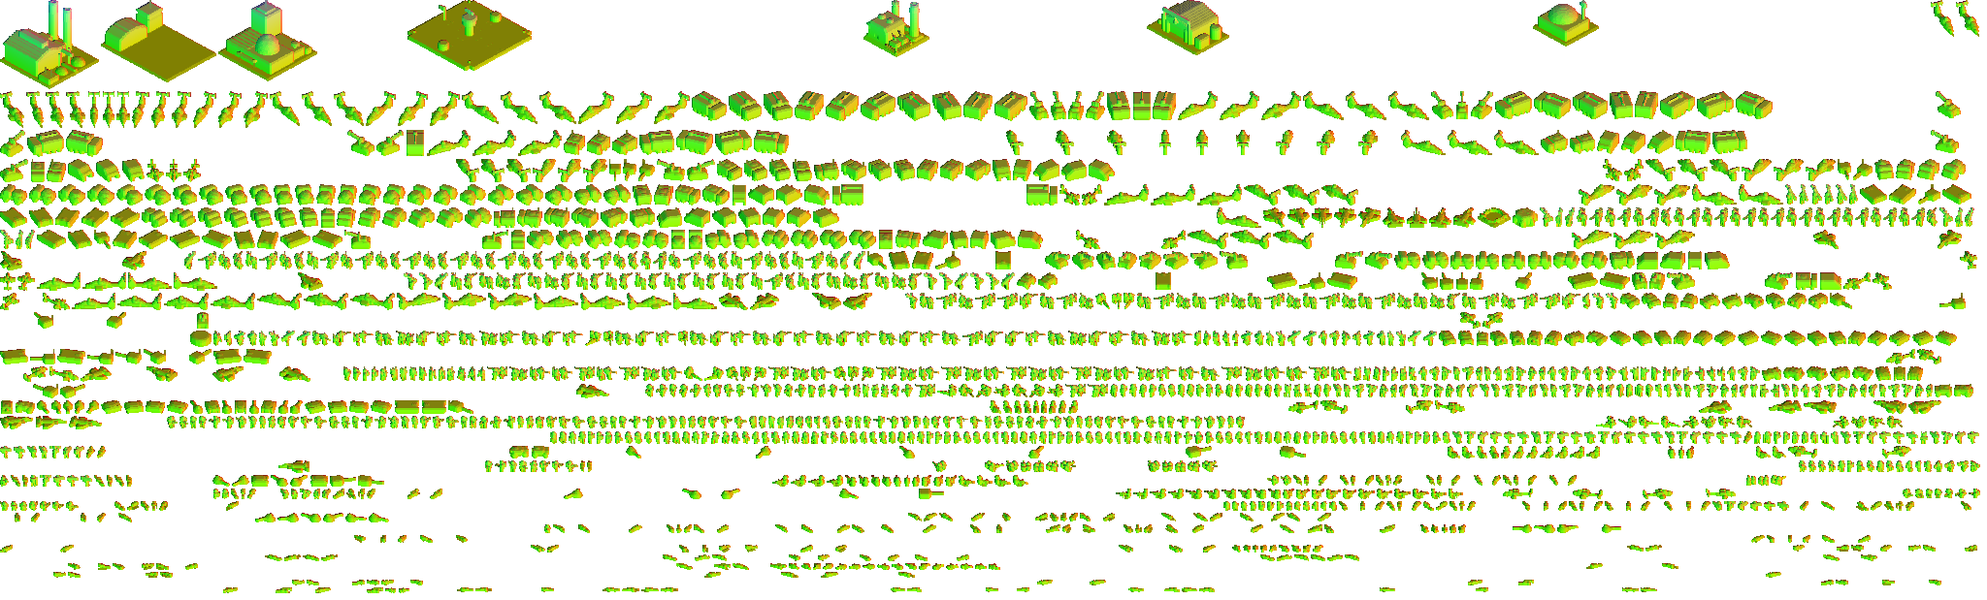
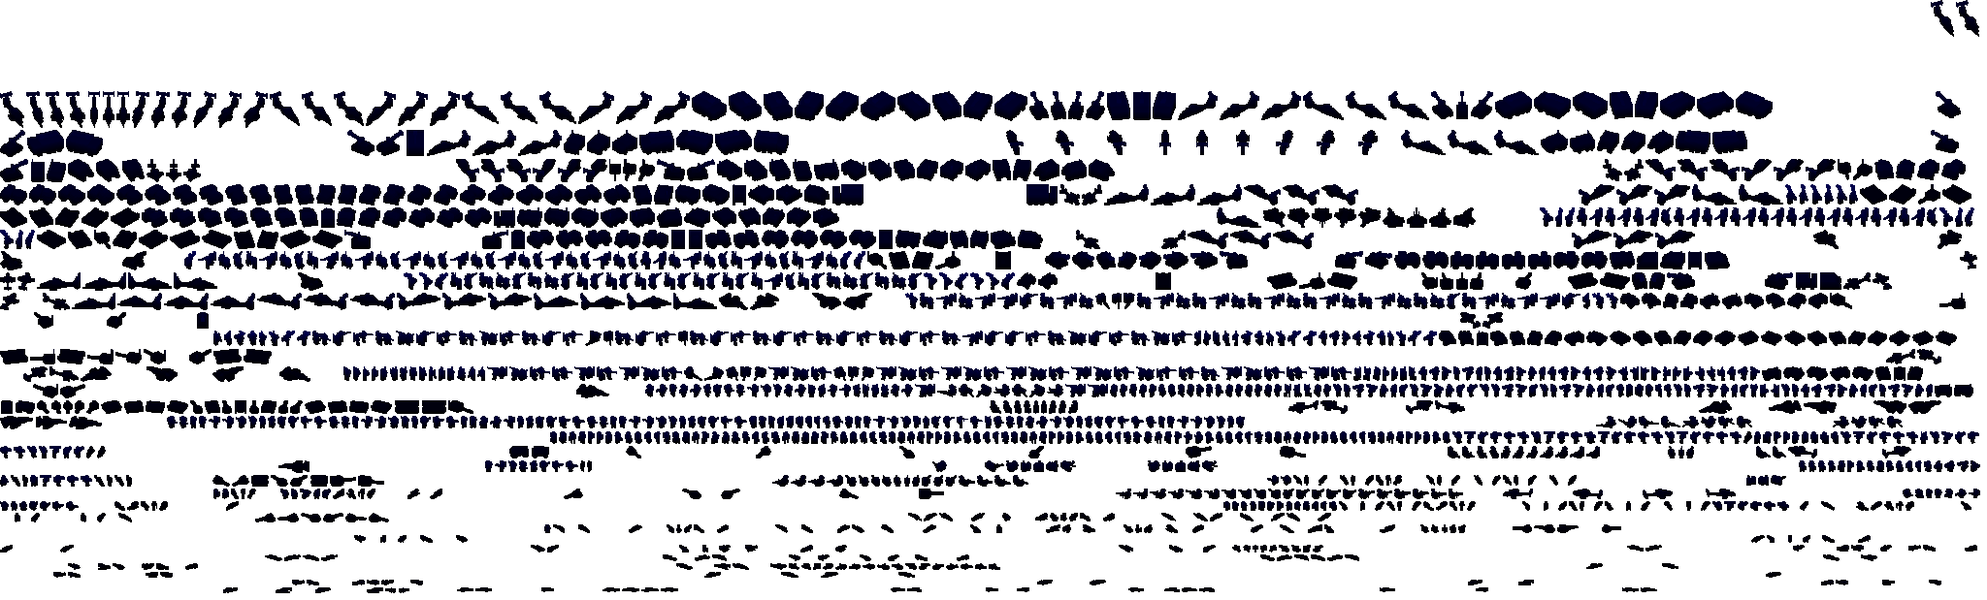
WebGL renderer: the sun where it is in the day on day/night maps (pictures and hills relit per pixel, new over baked), thick lines and whole ellipses as WebGL shapes, normal maps without structures (0.44 MB) and marking glowing parts; release steps, notes, TS build copies normals/; profiling code ou
Claude-Session: https://claude.ai/code/session_018itzs618nMgCo6BtfKwa1w

diff --git a/src/gl.js b/src/gl.js
@@ -288,7 +288,7 @@ void main() {
     order.sort((p, q2) => key[p] - key[q2]);
     for (let k = 0; k < n; k++) {
       const i = order[k], z = s.zs[i], nxr = s.nx[i] * ca - s.ny[i] * sa, nyr = s.nx[i] * sa + s.ny[i] * ca;
-      const pix = (255 << 24) | (Math.min(255, Math.round((z + 0.5) * 3)) << 16) | (Math.round((nyr * 0.5 + 0.5) * 255) << 8) | Math.round((nxr * 0.5 + 0.5) * 255);
+      const pix = (255 << 24) | ((typeof M_GLOW !== 'undefined' && s.mat[i] === M_GLOW ? 1 : Math.min(255, Math.max(2, Math.round((z + 0.5) * 3)))) << 16)   // (blue: height, 2 and up; 1: a glowing part, which the sun does not light) | (Math.round((nyr * 0.5 + 0.5) * 255) << 8) | Math.round((nxr * 0.5 + 0.5) * 255);
       const x0 = Math.floor((px[i] - ext - minX) * SS), x1 = Math.ceil((px[i] + ext - minX) * SS);
       const y0 = Math.floor((py[i] - ext * F - (z + 1) * VKk - minY) * SS), y1 = Math.ceil((py[i] + ext * F - z * VKk - minY) * SS);
       for (let yy = Math.max(0, y0); yy < Math.min(BH, y1); yy++) { const row = yy * BW; for (let xx = Math.max(0, x0); xx < Math.min(BW, x1); xx++) buf[row + xx] = pix; }
@@ -345,7 +345,18 @@ void main() {
   // first and drawn with its own (a glow drawn 'lighter' adds, as in 2D); other blends act on the layer as it is.
   let dirtyOp = 'source-over';
   // A fill style that is one colour: [r, g, b, a] in 0..1 (the canvas gives it back as #rrggbb or rgba(...)), else null.
-  let clipped = false, segs = [], segOk = true, last = null, softN = 0, subs = [], curved = false;
+  let clipped = false, segs = [], segOk = true, last = null, softN = 0, subs = [], curved = false, shut = false;
+  // A whole ellipse (centre, radii, turn, start and end angles) as a new subpath of 24 sides, if it starts one; else false.
+  function whole(x, y, rx, ry, rot, a0, a1) {
+    if (!(Math.abs(a1 - a0) >= Math.PI * 2 - 1e-6) || !(rx > 0 && ry > 0)) return false;
+    const L = subs[subs.length - 1];
+    if (L && (L.length > 2 || shut)) return false;   // (joined to what came before)
+    if (L) subs.pop();
+    const P = [], c = Math.cos(rot || 0), sn = Math.sin(rot || 0), N = 24;
+    for (let i = 0; i < N; i++) { const t = i / N * Math.PI * 2, ex = Math.cos(t) * rx, ey = Math.sin(t) * ry; P.push(...tp(x + ex * c - ey * sn, y + ex * sn + ey * c)); }
+    subs.push(P); shut = true; last = null;
+    return true;
+  }
   // A polygon (screen px, x y x y...) that turns one way only (a triangle fan fills it exactly).
   const convex = (P) => {
     const n = P.length / 2; if (n < 3) return false;
@@ -376,7 +387,6 @@ void main() {
     const op = lctx.globalCompositeOperation;
     if (BLENDS[op] === undefined) R.unsupported[op] = (R.unsupported[op] || 0) + 1;
     else if (op !== dirtyOp) { if (dirty) flush(); dirtyOp = op; }
-    if (R.bitLog) R.bitLog.push([Math.round(b[2] - b[0]), Math.round(b[3] - b[1]), (new Error().stack.split('\n').slice(3, 6).join(' < ')).replace(/file:[^ ]*src\//g, '')]);
     dirty = dirty ? grow(grow(dirty, b[0], b[1], 0), b[2], b[3], 0) : b.slice();
   };
   function atlasSpot(w, h) {
@@ -395,8 +405,7 @@ void main() {
   }
   function flush() {
     if (!dirty) return;
-    const tf = performance.now(); R.flushN = (R.flushN || 0) + 1;
-    try { flush1(); } finally { R.flushMs = (R.flushMs || 0) + performance.now() - tf; }
+    flush1();
   }
   function flush1() {
     const W = layer.width, H = layer.height, x0 = Math.max(0, Math.floor(dirty[0]) - 1), y0 = Math.max(0, Math.floor(dirty[1]) - 1);
@@ -408,7 +417,6 @@ void main() {
       const pw = Math.min(PC, x1 - px), ph = Math.min(PC, y1 - py), at = atlasSpot(pw, ph);
       if (!at) continue;
       atlases[at.i].c.getContext('2d').drawImage(layer, px, py, pw, ph, at.x, at.y, pw, ph);
-      if (R.bitLog) R.bitLog.push([pw, ph]);
       rec.push({ atlas: at.i, q: [px, py, px + pw, py, px, py + ph, px + pw, py + ph], u0: at.x / ATLAS, v0: at.y / ATLAS, u1: (at.x + pw) / ATLAS, v1: (at.y + ph) / ATLAS, a: 1, b: BLENDS[dirtyOp] || 0, d: depth });
       R.bits = (R.bits || 0) + 1;
     }
@@ -454,14 +462,16 @@ void main() {
     // What a drawing call covers on the layer (screen px), so it can be cut out.
     const lw = () => (lctx.lineWidth || 1) * scl() / 2 + 2;
     const hooks = {
-      beginPath() { pathBox = null; segs = []; segOk = true; last = null; subs = []; curved = false; lctx.beginPath(); },
+      beginPath() { pathBox = null; segs = []; segOk = true; last = null; subs = []; curved = false; shut = false; lctx.beginPath(); },
       closePath() { const P = subs[subs.length - 1]; if (P && last && P.length >= 4) { segs.push(last[0], last[1], P[0], P[1]); last = [P[0], P[1]]; } else segOk = false; lctx.closePath(); },
-      moveTo(x, y) { const [X, Y] = tp(x, y); pathBox = grow(pathBox, X, Y, 0); last = [X, Y]; subs.push([X, Y]); lctx.moveTo(x, y); },
-      lineTo(x, y) { const [X, Y] = tp(x, y); pathBox = grow(pathBox, X, Y, 0); if (last) segs.push(last[0], last[1], X, Y); else segOk = false; last = [X, Y]; if (subs.length) subs[subs.length - 1].push(X, Y); else subs.push([X, Y]); lctx.lineTo(x, y); },
+      moveTo(x, y) { const [X, Y] = tp(x, y); pathBox = grow(pathBox, X, Y, 0); last = [X, Y]; subs.push([X, Y]); shut = false; lctx.moveTo(x, y); },
+      lineTo(x, y) { if (shut) curved = true; const [X, Y] = tp(x, y); pathBox = grow(pathBox, X, Y, 0); if (last) segs.push(last[0], last[1], X, Y); else segOk = false; last = [X, Y]; if (subs.length) subs[subs.length - 1].push(X, Y); else subs.push([X, Y]); lctx.lineTo(x, y); },
       quadraticCurveTo(a, b, x, y) { segOk = false; curved = true; for (const [p, q] of [[a, b], [x, y]]) { const [X, Y] = tp(p, q); pathBox = grow(pathBox, X, Y, 0); } lctx.quadraticCurveTo(a, b, x, y); },
       bezierCurveTo(a, b, c, d, x, y) { segOk = false; curved = true; for (const [p, q] of [[a, b], [c, d], [x, y]]) { const [X, Y] = tp(p, q); pathBox = grow(pathBox, X, Y, 0); } lctx.bezierCurveTo(a, b, c, d, x, y); },
-      arc(x, y, r, ...k) { segOk = false; curved = true; const [X, Y] = tp(x, y); pathBox = grow(pathBox, X, Y, r * scl()); lctx.arc(x, y, r, ...k); },
-      ellipse(x, y, rx, ry, ...k) { segOk = false; curved = true; const [X, Y] = tp(x, y); pathBox = grow(pathBox, X, Y, Math.max(rx, ry) * scl()); lctx.ellipse(x, y, rx, ry, ...k); },
+      // (stage 5) A whole circle or ellipse begun on its own (after beginPath or moveTo) is a convex polygon for fill();
+      // a part of one is a curve (the layer).
+      arc(x, y, r, ...k) { segOk = false; if (!whole(x, y, r, r, 0, k[0], k[1])) curved = true; const [X, Y] = tp(x, y); pathBox = grow(pathBox, X, Y, r * scl()); lctx.arc(x, y, r, ...k); },
+      ellipse(x, y, rx, ry, ...k) { segOk = false; if (!whole(x, y, rx, ry, k[0], k[1], k[2])) curved = true; const [X, Y] = tp(x, y); pathBox = grow(pathBox, X, Y, Math.max(rx, ry) * scl()); lctx.ellipse(x, y, rx, ry, ...k); },
       rect(x, y, w, h) { segOk = false; { const P = []; for (const [p2, q2] of [[x, y], [x + w, y], [x + w, y + h], [x, y + h]]) P.push(...tp(p2, q2)); subs.push(P); last = null; } for (const [p, q] of [[x, y], [x + w, y], [x, y + h], [x + w, y + h]]) { const [X, Y] = tp(p, q); pathBox = grow(pathBox, X, Y, 0); } lctx.rect(x, y, w, h); },
       fill(...a) {
         // (stage 5) Straight-sided shapes, each convex (walls' faces, prisms, flags), in one colour and a blend WebGL does,
@@ -480,13 +490,25 @@ void main() {
         // (stage 5) Straight lines only, in one colour and a blend WebGL does, not clipped (rain, cables, rally lines):
         // each a thin coloured quad, not a cut-out of the box round them all (rain's was the whole view, every frame).
         const C = !a.length && segOk && !clipped && segs.length ? solid(lctx.strokeStyle) : null, b = BLENDS[lctx.globalCompositeOperation];
-        const hw = Math.max(0.5, (lctx.lineWidth || 1) * scl() / 4);   // (half the width; thin lines only: thick ones need joins)
-        if (C && b !== undefined && hw <= 1.5 && segs.length <= 16000 && !lctx.getLineDash().length) {
+        const hw = Math.max(0.5, (lctx.lineWidth || 1) * scl() / 4);   // (half the width)
+        if (C && b !== undefined && segs.length <= 16000 && !lctx.getLineDash().length) {
           flush();
           const hw2 = hw, al = lctx.globalAlpha * C[3];   // (scl: the sum of both axes' scales)
           for (let i = 0; i < segs.length; i += 4) {
             const x0 = segs[i], y0 = segs[i + 1], x1 = segs[i + 2], y1 = segs[i + 3], L = Math.hypot(x1 - x0, y1 - y0) || 1, nx = -(y1 - y0) / L * hw, ny = (x1 - x0) / L * hw;
             rec.push({ q: [x0 + nx, y0 + ny, x1 + nx, y1 + ny, x0 - nx, y0 - ny, x1 - nx, y1 - ny], u0: 0, v0: 0, u1: 1, v1: 1, a: al, b, d: depth, col: C });
+          }
+          // Thick lines: their joins and round caps as small round fans, square caps carried on by half the width.
+          if (hw > 1.5) {
+            const cap = lctx.lineCap, fan = (cx, cy) => { const N = 10; for (let i = 0; i < N; i++) { const t0 = i / N * Math.PI * 2, t1 = (i + 1) / N * Math.PI * 2; rec.push({ q: [cx, cy, cx + Math.cos(t0) * hw, cy + Math.sin(t0) * hw, cx + Math.cos(t1) * hw, cy + Math.sin(t1) * hw, cx + Math.cos(t1) * hw, cy + Math.sin(t1) * hw], u0: 0, v0: 0, u1: 1, v1: 1, a: al, b, d: depth, col: C }); } };
+            for (let i = 0; i < segs.length; i += 4) {
+              const joinedBefore = i > 0 && segs[i] === segs[i - 2] && segs[i + 1] === segs[i - 1], joinedAfter = i + 4 < segs.length && segs[i + 2] === segs[i + 4] && segs[i + 3] === segs[i + 5];
+              if (joinedAfter) fan(segs[i + 2], segs[i + 3]);
+              if (cap === 'round') { if (!joinedBefore) fan(segs[i], segs[i + 1]); if (!joinedAfter) fan(segs[i + 2], segs[i + 3]); }
+              else if (cap === 'square') { const x0 = segs[i], y0 = segs[i + 1], x1 = segs[i + 2], y1 = segs[i + 3], L = Math.hypot(x1 - x0, y1 - y0) || 1, dx = (x1 - x0) / L * hw, dy = (y1 - y0) / L * hw, nx = -dy, ny = dx;
+                if (!joinedBefore) rec.push({ q: [x0 - dx + nx, y0 - dy + ny, x0 + nx, y0 + ny, x0 - dx - nx, y0 - dy - ny, x0 - nx, y0 - ny], u0: 0, v0: 0, u1: 1, v1: 1, a: al, b, d: depth, col: C });
+                if (!joinedAfter) rec.push({ q: [x1 + nx, y1 + ny, x1 + dx + nx, y1 + dy + ny, x1 - nx, y1 - ny, x1 + dx - nx, y1 + dy - ny], u0: 0, v0: 0, u1: 1, v1: 1, a: al, b, d: depth, col: C }); }
+            }
           }
           R.lines = (R.lines || 0) + segs.length / 4;
           return;
@@ -673,6 +695,7 @@ precision highp float; out vec4 o;
 uniform sampler2D uScene, uNrm, uSh, uGlow, uWarm, uPool, uCloud;
 uniform vec2 uSize, uOrg, uCam, uScr, uHalf;
 uniform float uLook, uSat, uGlowK, uCloudK, uWarmK, uNight, uT, uNrmK;
+uniform float uSunK, uSunSt, uGroundSt, uHD, uHS, uAmb; uniform vec3 uBakeL, uSunL, uSunC; uniform vec2 uRot, uSunG;
 uniform vec3 uGrade; uniform vec4 uSun, uShade, uHaze, uTint, uVig;
 float sl(float b, float s) { float d = b <= 0.25 ? ((16.0 * b - 12.0) * b + 4.0) * b : sqrt(b); return s <= 0.5 ? b - (1.0 - 2.0 * s) * b * (1.0 - b) : b + (2.0 * s - 1.0) * (d - b); }
 float lightAt(vec2 uv) { vec4 h = texture(uSh, uv); return (1.0 - h.r) + (1.0 - h.g) + dot(texture(uGlow, uv).rgb + texture(uWarm, uv).rgb, vec3(0.333)); }
@@ -681,6 +704,18 @@ void main() {
   vec3 c = texture(uScene, uv).rgb;
   float nf = 1.0;   // how much this pixel's surface faces the light here (1: flat, as 2D)
   vec4 nn = texture(uNrm, uv);
+  if (uSunK > 0.0 && nn.a > 0.5 && nn.r + nn.g > 0.01) {   // (rg 0: a picture with no normal map, left as it is)   // (stage 5) the sun where it is now, not where the pictures and the ground were lit from
+    vec2 sq = nn.rg / nn.a * 2.0 - 1.0; float bz = nn.b / nn.a; vec3 sn = vec3(sq, sqrt(max(0.0, 1.0 - dot(sq, sq))));
+    if (bz < 0.5 / 255.0) {   // the ground: art.js groundPixels' hill shading, from its slope (the drawn one, back to the world's axes)
+      vec2 nw = vec2(sn.x * uRot.x + sn.y * uRot.y, -sn.x * uRot.y + sn.y * uRot.x), gr = -nw / (max(sn.z, 0.2) * uHD);
+      float lo = -0.45 - 0.12 * (uHS - 1.0), hi = 0.4 + 0.1 * (uHS - 1.0);
+      float l0 = clamp(dot(gr, vec2(0.937, -0.351)) * 4.2 * uHS, lo, hi), l1 = clamp(dot(gr, uSunG) * 4.2 * uHS * uGroundSt, lo, hi);
+      c *= (1.0 + l1 * (l1 > 0.0 ? uSunC : vec3(1.0))) / (1.0 + l0);
+    } else if (bz > 1.5 / 255.0) {   // a voxel picture: voxel.js renderVox's light (0.5 + 0.68 x the sun on it), new over old
+      c *= (uAmb + 0.68 * uSunSt * max(0.0, dot(sn, uSunL)) * uSunC) / (0.5 + 0.68 * max(0.0, dot(sn, uBakeL)));
+    }
+    c = min(c, 1.0);
+  }
   vec2 nxy = nn.a > 0.5 ? nn.rg / nn.a * 2.0 - 1.0 : vec2(0.0);
   if (uNrmK > 0.0 && nn.a > 0.5 && nn.r + nn.g > 0.01 && dot(nxy, nxy) > 0.0004) {   // (flat ground and tops: lit as 2D, no lookups)
     vec3 n = vec3(nxy, sqrt(max(0.0, 1.0 - dot(nxy, nxy))));
@@ -688,7 +723,7 @@ void main() {
     vec2 g = vec2(lightAt(uv + vec2(d.x, 0.0)) - lightAt(uv - vec2(d.x, 0.0)), lightAt(uv - vec2(0.0, d.y)) - lightAt(uv + vec2(0.0, d.y)));   // (x right, y toward the camera: down the view)
     // Sides facing the light brighter, sides turned away darker, as much as the light has a clear direction here (the
     // slope's steepness) and less on tops (facing up): on average as bright as 2D, so the pictures keep their colours.
-    bool ground = nn.b < 0.004;   // (blue: the pictures' height, never 0; the ground's 0)
+    bool ground = nn.b < 0.002 * nn.a;   // (blue: the pictures' height, 2/255 and up, or 1/255 a glowing part; the ground's 0)
     float m = length(g), w = m > 1e-4 ? smoothstep(0.0, 0.05, m) * (ground ? 1.0 : 1.0 - 0.6 * n.z) : 0.0;
     float f = m > 1e-4 ? dot(n.xy, g / m) : 0.0;
     if (ground) f = clamp(f * 3.0, -1.0, 1.0);   // (the hills are gentle: their slopes facing a light catch it as a wall would)
@@ -723,7 +758,7 @@ void main() {
     P3 = gl.createProgram(); gl.attachShader(P3, mk(gl.VERTEX_SHADER, VS3)); gl.attachShader(P3, mk(gl.FRAGMENT_SHADER, FS3)); gl.linkProgram(P3);
     if (!gl.getProgramParameter(P3, gl.LINK_STATUS)) throw new Error(gl.getProgramInfoLog(P3));
     loc3 = { aQ: gl.getAttribLocation(P3, 'aQ') };
-    for (const n of ['uScene', 'uNrm', 'uSh', 'uGlow', 'uWarm', 'uPool', 'uCloud', 'uSize', 'uOrg', 'uCam', 'uScr', 'uHalf', 'uLook', 'uSat', 'uGlowK', 'uCloudK', 'uWarmK', 'uNight', 'uT', 'uNrmK', 'uGrade', 'uSun', 'uShade', 'uHaze', 'uTint', 'uVig']) loc3[n] = gl.getUniformLocation(P3, n);
+    for (const n of ['uScene', 'uNrm', 'uSh', 'uGlow', 'uWarm', 'uPool', 'uCloud', 'uSize', 'uOrg', 'uCam', 'uScr', 'uHalf', 'uLook', 'uSat', 'uGlowK', 'uCloudK', 'uWarmK', 'uNight', 'uT', 'uNrmK', 'uGrade', 'uSun', 'uShade', 'uHaze', 'uTint', 'uVig', 'uSunK', 'uSunSt', 'uGroundSt', 'uHD', 'uHS', 'uBakeL', 'uSunL', 'uRot', 'uSunG', 'uAmb', 'uSunC']) loc3[n] = gl.getUniformLocation(P3, n);
     tri = gl.createBuffer(); gl.bindBuffer(gl.ARRAY_BUFFER, tri); gl.bufferData(gl.ARRAY_BUFFER, new Float32Array([-1, -1, 3, -1, -1, 3]), gl.STATIC_DRAW);
   }
   // Soft pictures (lights) into a light buffer: [picture, view x, view y, w, h, alpha]; the blend set by the caller.
@@ -741,6 +776,25 @@ void main() {
     R.lightQuads += quads.length;
     if (quads.length) R.calls += drawQuads(quads, false);
   }
+  // (stage 5) The sun over the day on the maps with day and night (art.js dayNight's day: DAY_LEN, DAY_START): it comes
+  // round from one side in the morning to the other in the evening (up to SUN_SWING radians either side of where the
+  // pictures and the hills were lit from, at noon: no change then, and never so far that the cast shadows, which stay
+  // where they were baked, look wrong), lower and so raking at dawn and dusk; at night only a moon from the baked side.
+  // Maps without day and night keep the baked sun (no change). ?gl=nosun: off.
+  const SUN_SWING = 1.2, MOON = 0.45;
+  R.sun = !/[?&]gl=nosun\b/.test(q);
+  function sunNow(t) {
+    const p = (t / DAY_LEN + DAY_START) % 1, h = Math.sin((p - 0.25) * Math.PI * 2);
+    const day = Math.max(0, Math.min(1, (h + 0.05) / 0.35)), sm = day * day * (3 - 2 * day);
+    const th = Math.max(-SUN_SWING, Math.min(SUN_SWING, (p - 0.5) * 4)) * sm, e = Math.max(0, Math.min(1, h)) * sm + (1 - sm);
+    const ct = Math.cos(th), st2 = Math.sin(th), lx = LIGHT[0] * ct - LIGHT[1] * st2, ly = LIGHT[0] * st2 + LIGHT[1] * ct;
+    const k = 1 + (1 - e) * 2, ll = Math.hypot(lx * k, ly * k, LIGHT[2]);   // (low sun: more of it from the side)
+    const gx = 0.937 * ct - (-0.351) * st2, gy = 0.937 * st2 + (-0.351) * ct;
+    const low = (1 - e) * sm;   // (a low sun: less light from the sky round it, and warmer)
+    return { l: [lx * k / ll, ly * k / ll, LIGHT[2] / ll], g: [gx, gy], st: sm + (1 - sm) * MOON, gst: (sm * (1 + (1 - e) * 0.8)) + (1 - sm) * MOON, th, e,
+      amb: 0.5 - 0.1 * low, col: [1 + 0.1 * low, 1 - 0.03 * low, 1 - 0.16 * low] };
+  }
+  R.sunNow = sunNow;
   function lightPass(L) {
     if (!P3) init3();
     const W = FW, H = FH, hw = Math.max(1, Math.round(W / 2)), hh = Math.max(1, Math.round(H / 2)), B = lightBufs(hw, hh);
@@ -778,6 +832,13 @@ void main() {
     gl.uniform2f(loc3.uSize, W, H); gl.uniform2f(loc3.uHalf, hw, hh);
     gl.uniform2f(loc3.uOrg, L ? L.vx : 0, L ? L.vy : 0); gl.uniform2f(loc3.uCam, L ? L.cam[0] : 0, L ? L.cam[1] : 0); gl.uniform2f(loc3.uScr, L ? L.sw : W, L ? L.sh : H);
     gl.uniform1f(loc3.uLook, look ? 1 : 0); gl.uniform1f(loc3.uT, G ? G.t : 0); gl.uniform1f(loc3.uNrmK, L ? R.nrmK : 0);
+    const SUN = L && dnMap && R.sun ? sunNow(G.t) : null;
+    gl.uniform1f(loc3.uSunK, SUN ? 1 : 0);
+    if (SUN) {
+      gl.uniform1f(loc3.uSunSt, SUN.st); gl.uniform1f(loc3.uGroundSt, SUN.gst); gl.uniform3f(loc3.uBakeL, ...LIGHT); gl.uniform3f(loc3.uSunL, ...SUN.l);
+      gl.uniform2f(loc3.uSunG, ...SUN.g); gl.uniform2f(loc3.uRot, VIEW.c, VIEW.s); gl.uniform1f(loc3.uAmb, SUN.amb); gl.uniform3f(loc3.uSunC, ...SUN.col);
+      gl.uniform1f(loc3.uHD, typeof HILL_DRAW !== 'undefined' ? HILL_DRAW : 1); gl.uniform1f(loc3.uHS, typeof HILL_SHADE !== 'undefined' ? HILL_SHADE : 1);
+    }
     gl.uniform1f(loc3.uWarmK, L && DN.warm > 0.01 ? 0.32 * DN.warm : 0); gl.uniform1f(loc3.uNight, nightOn ? DN.night : 0);
     if (look) {
       const c4 = (c, m) => [c[0] / 255, c[1] / 255, c[2] / 255, c[3] * m];

diff --git a/tools/bake-normals.js b/tools/bake-normals.js
@@ -2,8 +2,8 @@
 // layout as sprites/<sheet> (the same spot for every picture), and normals/manifest.json. The game loads them with the
 // sprite sheets when WebGL draws (art.js SpriteSheets), so a picture's normal map is not worked out while you play
 // (gl.js nrmPic, at most 3 ms a frame). Worked out by gl.js's own nrmPic in headless Chromium, from the same models.
-// Red, green: the surface's direction turned with the view; blue: height; alpha 0 where there is none (pictures not from
-// one voxel model, cast shadows).
+// Red, green: the surface's direction turned with the view; blue: height (2 and up; 1: a glowing part); alpha 0 where there
+// is none (pictures not from one voxel model, cast shadows, and structures while lookstructs.js redraws them).
 //   node tools/bake-normals.js <repo>           bake (after tools/bake-sprites.js)
 //   node tools/bake-normals.js <repo> --check   exit 1 if stale (the sprites were rebaked, or nrmPic changed)
 // The sprites are rendered here as tools/bake-sprites.js renders them (the same sets; keep them in step): every picture
@@ -69,6 +69,7 @@ const outDir = path.join(root, 'normals');
       let n = 0, none = 0, odd = 0;
       for (const e of sh.sprites) {
         const s = spriteCache2.get(e[0]);
+        if (e[0][0] === 'S' && typeof LOOK !== 'undefined' && LOOK.structs) { none++; continue; }   // (structures: refused from the sheets on this branch, lookstructs.js; their normal maps are worked out in play from the new models)
         if (!s) return { err: 'picture ' + e[0] + ' did not come out: run tools/bake-sprites.js first, or bring this tool in step with it' };
         if (s.img.width !== e[3] || s.img.height !== e[4]) { none++; odd++; continue; }   // (drawn differently on this branch than baked, as some structures: no normal map, as at run time)
         const c = GLR.nrmPic(s.img);

diff --git a/tools/look/gl-compare.js b/tools/look/gl-compare.js
@@ -36,7 +36,7 @@ const { chromium } = require('playwright');
     await p.evaluate(() => { G.paused = true; }); await p.waitForTimeout(6000);
     const t = await p.evaluate(async () => { const a = performance.now(); let n = 0; while (performance.now() - a < 2000) { await new Promise((r) => requestAnimationFrame(r)); n++; } return { fps: n / 2, gnd: drawParts.gnd && drawParts.gnd.toFixed(2), glFrames: GLR.frames, quads: GLR.quads, unsup: GLR.unsupported, calls: GLR.calls, bits: GLR.bits, lights: GLR.lights, lightQuads: GLR.lightQuads, overQuads: GLR.overQuads, lit: GLR.lit, bitRows: GLR.bitRows, normals: GLR.normals, none: GLR.nrmNone, mismatch: GLR.nrmMismatch, fxNear: window.__fxn, fx: G.effects.length, shots: G.projectiles.length }; });
     // off: the 2D way; on: WebGL with flat light (GLR.nrmK 0, to compare with 2D); lit: WebGL with the normal maps' light (stage 4)
-    for (const m of ['off', 'on', 'lit']) { await p.evaluate((m) => { GLR.paused = m === 'off'; if (GLR.on) GLR.nrmK = m === 'on' ? 0 : 0.85; }, m); await p.evaluate(() => new Promise((r) => requestAnimationFrame(() => requestAnimationFrame(r)))); await p.screenshot({ path: `${process.argv[3]}_${m}.png` }); }
+    for (const m of ['off', 'on', 'lit']) { await p.evaluate((m) => { GLR.paused = m === 'off'; if (GLR.on) { GLR.nrmK = m === 'on' ? 0 : 0.85; GLR.sun = m !== 'on'; } }, m); await p.evaluate(() => new Promise((r) => requestAnimationFrame(() => requestAnimationFrame(r)))); await p.screenshot({ path: `${process.argv[3]}_${m}.png` }); }
     console.log(mode, JSON.stringify(t), errs.slice(0, 3));
     await p.close();
   }

diff --git a/docs/NOTES.md b/docs/NOTES.md
@@ -1926,3 +1926,32 @@ Owner's match ea39d315 (3 v 3, 40 min, a 120 Hz PC at 2560 x 1370): 117 fps earl
 ## Ally picker was invisible (not released, team games, both modes)
 
 - With 2+ allies the Ally button builds `#allyPick` (`allyPicker`, ui.js), but style.css only styled `#autoPick`, so the card was never shown and the button seemed to do nothing (owner, 3 v AI online). `#allyPick` now shares the overlay rules. With one ally the button still toggles at once.
+
+## WebGL renderer (`src/gl.js`, from branch `claude/webgl`, merged into `claude/ts-look` 2026-11-20)
+
+The whole battlefield is drawn by WebGL2 when it can; `?gl=off` (and no WebGL2, a lost context, or `GLR.paused`) draws
+it the 2D way as before. Drawing only: rules, saves and online play do not change. The full history, measurements and
+reasons are in `plans/webgl-renderer.md`; the short version:
+
+- **How:** the ground is a mesh lifted by the hills (tiles as textures). From the ground to the HUD, ui.js draw draws
+  into a stand-in for the view canvas (`GLR.listBegin`): pictures become quads (atlases, normal-map twins), solid
+  rectangles, thin and thick straight lines, convex shapes and whole ellipses become coloured quads and triangles, big
+  gradient fills are drawn small and stretched, and anything else (curves, clipped drawing, unusual blends) is cut out of
+  a 2D layer into a per-frame atlas, in its place in the order. `GLR.listDepth` sets what is tested against the hills'
+  depth. `GLR.listEnd` draws the scene (colour and normals), the light pass (the look's mood, the night, lights from
+  `lookDayLights` / `nightLights`, the side of a picture or a hill facing a light lit more, the sun where it is in the
+  day on day/night maps), then what goes over the light (lamps, weather, storms) and the HUD; `GLR.present` puts it on
+  its own canvas (`#gl`) under the game's.
+- **Switches:** `?gl=off` the 2D way; `?gl=flatlight` no normal-map lighting; `?gl=nosun` the baked sun; `?gl=normals`
+  shows the normal maps; `?glstats` (or `#glstats`) a speed readout with a 2D / WebGL button.
+- **Baked normal maps:** `tools/bake-normals.js <repo> [--check]` writes `normals/` in the sprite sheets' layout (team
+  colours share one sheet; structures are left out while lookstructs.js redraws them). **Rebake after every
+  `tools/bake-sprites.js`**, and after a change to gl.js `nrmPic` (`--check` says so). Releases publish `normals/` with
+  `sprites/` (CLAUDE.md, Releasing step 4; tools/look/build-ts.sh copies it). Missing or stale, the game works them out
+  in play (at most 3 ms a frame).
+- **Do not change** `src/models.js` or `src/voxel.js` for it (the sprite bake's check hashes them): gl.js wraps
+  `renderVox` and `sprite` to know which model a picture came from.
+- **Checking:** `tools/look/gl-compare.js <repo> <prefix> <map> [fight|fightfx] [rain|snow]` draws one paused moment the 2D
+  way and with WebGL (flat light, sun off: about 1-2% of pixels differ, the hills' sampling) and lit.
+- **Phone:** the owner's iPhone: 60 fps zoomed all the way out at the start of a battle (16 before the zoomed-out fixes).
+

diff --git a/CLAUDE.md b/CLAUDE.md
@@ -42,10 +42,12 @@ share globals. Read this file first (feature notes are in `docs/NOTES.md`); the 
    then `.1`, `.2`... on the same day. `VERSION` is the first entry. The menu shows its title, and
    What's New carries a NEW badge until it is read.
 2. Check every script with `node --check`, and that the baked sprites are current: `node tools/bake-sprites.js <repo> --check`
-   (if stale, rebake: `node tools/bake-sprites.js <repo>`, see "Baked sprites" in `docs/NOTES.md`), and the baked ground: `node tools/bake-ground.js <repo> --check`.
+   (if stale, rebake: `node tools/bake-sprites.js <repo>`, see "Baked sprites" in `docs/NOTES.md`), and the baked ground: `node tools/bake-ground.js <repo> --check`, and (once the WebGL renderer is in) the baked
+   normal maps: `node tools/bake-normals.js <repo> --check` (rebake with `node tools/bake-normals.js <repo>` after every sprite
+   rebake; see "WebGL renderer" in `docs/NOTES.md`).
 3. Build the single file: `python3 scripts/build-single-file.py <out.html>`. Load it in headless
    Playwright and start a game to check it runs without errors.
-4. **Owner's build:** publish `<out.html>` (and, when they changed, the files in `sprites/` as `sprites/<name>` and in `grounds/` as `grounds/<path>`) to the artifact URL above with the Artifact tool
+4. **Owner's build:** publish `<out.html>` (and, when they changed, the files in `sprites/` as `sprites/<name>` and in `grounds/` as `grounds/<path>`, and in `normals/` as `normals/<name>`) to the artifact URL above with the Artifact tool
    (artifact slug `d3b16e49-e1b0-4114-9609-965e7c8a302b`; `get_artifact` for the base version).
    `publish_files` only reads files inside the repo folder, so build to `.build/index.html`, publish,
    then `rm -rf .build` (it is not gitignored, and the Stop hook complains about untracked files).
